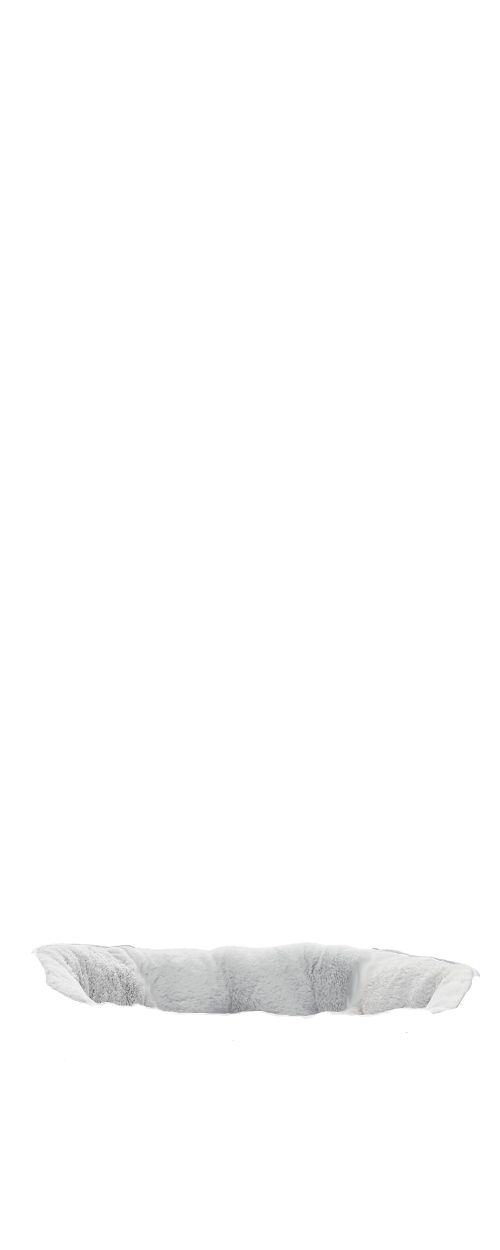
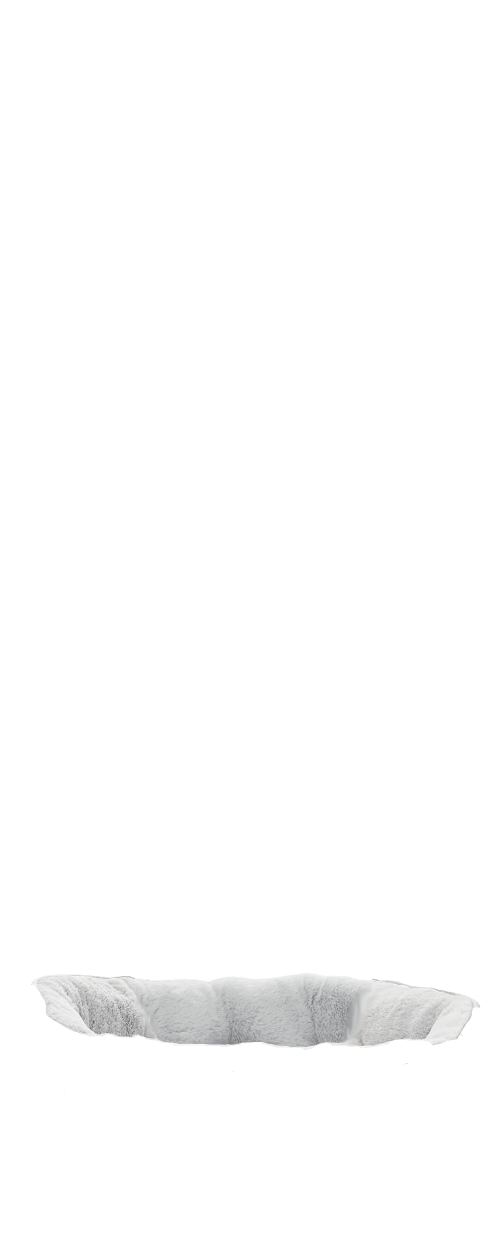
Pet Bed Fixes (#2085)
* Fixed Position Assets

* Pet Bed Fixes

* Revert

* Revert premature change

Changed region(s): [[0.06, 0.7488, 0.96, 0.8424]]

diff --git a/BondageClub/Assets/Female3DCG/Female3DCG.js b/BondageClub/Assets/Female3DCG/Female3DCG.js
@@ -3848,12 +3848,10 @@ var AssetFemale3DCG = [
 				]
 			},
 			{ 
-				Name: "PetBed", Fetish: ["Pet"], Value: 50, Difficulty: -25, SelfBondage: 0, Time: 5, RemoveTime: 5, Effect: ["Freeze"], RemoveAtLogin: true, SetPose: ["Kneel"], AllowPose: ["Kneel", "AllFours","Hogtied"], 
+				Name: "PetBed", Fetish: ["Pet"], Value: 50, Difficulty: -25, SelfBondage: 0, Time: 5, RemoveTime: 5, Effect: ["Freeze"], RemoveAtLogin: true, SetPose: ["Kneel"], FixedPosition: true, 
 				Layer: [
 					{ Name: "Lining", Priority: 1, AllowColorize: false},
-					{ Name: "Bed", AllowColorize: true, Alpha: [{ Pose: ["AllFours","Hogtied"], Masks: [
-						[0, 350, 500, 200],  //Below bed item
-					]}]}
+					{ Name: "Bed", AllowColorize: true, Alpha: [{ Masks: [[0, 800, 500, 250],] }] }
 				],
 			},
 			{
